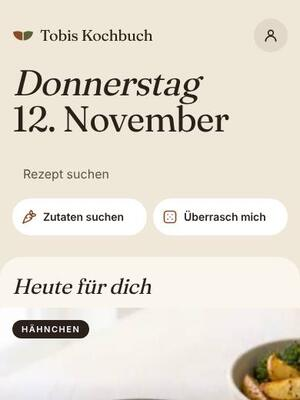
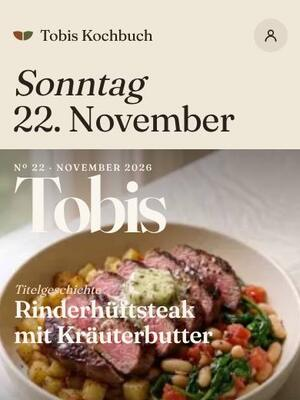
Brigade, Boxengasse, Bildband: eigener Aufbau (Bonschiene, Zeitenmonitor, Magazin-Titelblatt)
Claude-Session: https://claude.ai/code/session_013PTjiN2vxWXEUNgaQEpBeg

diff --git a/assets/skins/brigade.css b/assets/skins/brigade.css
@@ -118,3 +118,28 @@ html.skin.skin-brigade:not(._a):not(._b):not(._c):not(._d):not(._e):not(._f) .bo
 .skIntro-brigade .ivBon{width:min(62vw,250px);margin:0 auto;padding:12px 14px 18px;background:#FAFAF7;font:600 15px ui-monospace, "SF Mono", Menlo, monospace;color:#16191B;box-shadow:0 10px 20px rgba(0,0,0,.2);
   clip-path:inset(0 0 100% 0);animation:ivPrint .9s steps(9,end) 1.2s forwards}
 .skIntro-brigade .ivBon b{display:block;border-bottom:1px dashed #999;padding-bottom:4px;margin-bottom:6px}
+
+/* Dez. 2026, mehr eigener Charakter (brigade.js): Bonschiene auf dem Start, Rezeptliste als Bons an der Schiene, Krepp-Etikett */
+.bgRail{margin:18px 0 6px}
+.bgRailHead{margin:0 0 0;padding:6px 10px;background:linear-gradient(#E3E6E9,#AEB4BA);border-radius:4px;box-shadow:inset 0 1px 0 #FFF, 0 2px 4px rgba(0,0,0,.2);font:700 .75rem "Archivo", -apple-system, sans-serif;letter-spacing:.14em;text-transform:uppercase;color:#2A2F33}
+.bgTickets{display:flex;gap:10px;overflow-x:auto;padding:0 4px 14px;scrollbar-width:none}
+.bgTicket{flex:0 0 46%;display:flex;flex-direction:column;gap:4px;margin-top:-2px;padding:14px 12px 18px;background:#FFFFFE;color:#1A1A1A;text-decoration:none;font:400 .875rem/1.35 "Retro Mono", ui-monospace, monospace;box-shadow:0 6px 14px rgba(0,0,0,.18);transform:rotate(var(--r));transform-origin:50% 0;-webkit-mask:linear-gradient(#000,#000) 0 0/100% calc(100% - 7px) no-repeat, linear-gradient(135deg,#000 50%,transparent 50%) 0 100%/10px 7px repeat-x, linear-gradient(225deg,#000 50%,transparent 50%) 5px 100%/10px 7px repeat-x;mask:linear-gradient(#000,#000) 0 0/100% calc(100% - 7px) no-repeat, linear-gradient(135deg,#000 50%,transparent 50%) 0 100%/10px 7px repeat-x, linear-gradient(225deg,#000 50%,transparent 50%) 5px 100%/10px 7px repeat-x}
+.bgNo{color:#2E62A8;font-size:.75rem}
+.bgTicket b{font-weight:600}
+.bgTicket i{font-style:normal;color:#5A5F64}
+html.skin-brigade.bgList:not(#_x#_y) #recipeGrid{display:grid !important;grid-template-columns:repeat(2,minmax(0,1fr)) !important;gap:26px 12px !important;padding-top:20px !important;background:linear-gradient(#E3E6E9,#AEB4BA) 0 0/100% 14px no-repeat}
+@media (min-width:700px){html.skin-brigade.bgList:not(#_x#_y) #recipeGrid{grid-template-columns:repeat(3,minmax(0,1fr)) !important}}
+@media (min-width:1100px){html.skin-brigade.bgList:not(#_x#_y) #recipeGrid{grid-template-columns:repeat(4,minmax(0,1fr)) !important}}
+html.skin-brigade.bgList:not(#_x#_y) #recipeGrid .linkCard{margin:0 !important}
+html.skin-brigade.bgList:not(#_x#_y) #recipeGrid .linkCard:nth-child(3n+1) .recipeCard{transform:rotate(-1.2deg)}
+html.skin-brigade.bgList:not(#_x#_y) #recipeGrid .linkCard:nth-child(3n+2) .recipeCard{transform:rotate(.9deg)}
+html.skin-brigade.bgList:not(#_x#_y) #recipeGrid .recipeCard{display:flex !important;flex-direction:column;padding:12px 10px 20px !important;background:#FFFFFE !important;border-radius:0 !important;border:0 !important;box-shadow:0 6px 14px rgba(0,0,0,.16) !important;transform-origin:50% 0;-webkit-mask:linear-gradient(#000,#000) 0 0/100% calc(100% - 7px) no-repeat, linear-gradient(135deg,#000 50%,transparent 50%) 0 100%/10px 7px repeat-x, linear-gradient(225deg,#000 50%,transparent 50%) 5px 100%/10px 7px repeat-x;mask:linear-gradient(#000,#000) 0 0/100% calc(100% - 7px) no-repeat, linear-gradient(135deg,#000 50%,transparent 50%) 0 100%/10px 7px repeat-x, linear-gradient(225deg,#000 50%,transparent 50%) 5px 100%/10px 7px repeat-x}
+html.skin-brigade.bgList:not(#_x#_y) #recipeGrid .recipeCard::before{content:var(--bon);display:flex;justify-content:space-between;padding-bottom:6px;margin-bottom:8px;border-bottom:1px dashed #9AA0A6;font:400 .75rem "Retro Mono", ui-monospace, monospace;color:#2E62A8}
+html.skin-brigade.bgList:not(#_x#_y) #recipeGrid .rcImg{order:3;margin-top:10px !important;border-radius:0 !important;aspect-ratio:4/3 !important}
+html.skin-brigade.bgList:not(#_x#_y) #recipeGrid .rcBody{padding:0 !important}
+html.skin-brigade.bgList:not(#_x#_y) #recipeGrid .recipeTitle{font:600 .9375rem/1.3 "Retro Mono", ui-monospace, monospace !important;text-transform:uppercase;color:#1A1A1A !important}
+html.skin-brigade.bgList:not(#_x#_y) #recipeGrid .recipeTitle::before{content:"1× "}
+html.skin-brigade.bgList:not(#_x#_y) #recipeGrid .recipeMeta{font:400 .75rem "Retro Mono", ui-monospace, monospace !important;color:#5A5F64 !important}
+html.skin-brigade.bgList:not(#_x#_y) #recipeGrid .recipeMeta>:nth-child(n+2){display:none !important}
+.bgTape{position:absolute;left:50%;top:-14px;z-index:3;max-width:86%;padding:8px 18px;background:#5B8FD6;color:#0E1A2B;font:400 1.375rem/1.1 "Skin Filzstift", "Skin Feder", cursive;transform:translateX(-50%) rotate(-2deg);box-shadow:0 2px 4px rgba(0,0,0,.2);white-space:nowrap;overflow:hidden;text-overflow:ellipsis;opacity:.95}
+html.skin-brigade:not(#_x#_y) .recipePageHero{overflow:visible !important;margin-top:70px !important}

diff --git a/assets/skins/boxengasse.css b/assets/skins/boxengasse.css
@@ -103,3 +103,33 @@ html.skin-boxengasse:not(#_x#_y) .bxMarqTrack{animation:none}
 html.skin-boxengasse:not(#_x#_y) .bxRv{opacity:1;transform:none}
 html.skin-boxengasse::view-transition-new(root){animation:vtIn .18s both}
 }
+
+/* Dez. 2026, mehr eigener Charakter (boxengasse.js): Startaufstellung, Zeitenmonitor als Rezeptliste, Telemetrie-Leiste */
+.bxGrid{display:grid;grid-template-columns:1fr 1fr 1fr;align-items:end;gap:8px;margin:20px 0 8px}
+.bxGridHead{grid-column:1/-1;display:flex;justify-content:space-between;margin:0 0 4px;font:800 .75rem/1 -apple-system, sans-serif;letter-spacing:.12em;text-transform:uppercase;color:#D2FF00}
+.bxSlot{position:relative;display:flex;flex-direction:column;gap:4px;padding:8px;background:#1C1F17;border-top:4px solid #D2FF00;color:#F2F2EC;text-decoration:none;clip-path:polygon(0 0,100% 0,100% calc(100% - 14px),calc(100% - 14px) 100%,0 100%)}
+.bxP1{padding-bottom:28px;border-top-color:#FFFFFF}
+.bxSlot img{width:100%;aspect-ratio:1;object-fit:cover}
+.bxSlot b{position:absolute;left:8px;top:8px;padding:2px 6px;background:#D2FF00;color:#282C20;font:900 1rem/1 -apple-system, sans-serif}
+.bxSlot span{font:800 .8125rem/1.15 -apple-system, sans-serif;text-transform:uppercase;display:-webkit-box;-webkit-line-clamp:2;-webkit-box-orient:vertical;overflow:hidden}
+.bxSlot i{font:600 .75rem/1 ui-monospace, monospace;font-style:normal;color:#D2FF00}
+.bxBoardHead{display:grid;grid-template-columns:3rem 1fr 6.5rem;gap:10px;margin:14px 0 0;padding:6px 10px;background:#D2FF00;color:#282C20;font:900 .75rem -apple-system, sans-serif;letter-spacing:.1em;text-transform:uppercase}
+html.skin-boxengasse.bxList:not(#_x#_y) #recipeGrid{display:block !important;background:#1C1F17;padding:0 !important;margin:0 0 20px !important;counter-reset:none}
+html.skin-boxengasse.bxList:not(#_x#_y) #recipeGrid .linkCard{display:block;margin:0 !important}
+html.skin-boxengasse.bxList:not(#_x#_y) #recipeGrid .recipeCard{position:relative;display:grid !important;grid-template-columns:3rem 48px 1fr 6.5rem;align-items:center;gap:10px;padding:8px 10px !important;background:transparent !important;border:0 !important;border-bottom:1px solid rgba(242,242,236,.1) !important;border-radius:0 !important;box-shadow:none !important;clip-path:none !important}
+html.skin-boxengasse.bxList:not(#_x#_y) #recipeGrid .linkCard:nth-child(odd) .recipeCard{background:rgba(242,242,236,.03) !important}
+html.skin-boxengasse.bxList:not(#_x#_y) #recipeGrid .recipeCard::before{content:var(--pos);font:900 1rem/1 -apple-system, sans-serif;color:#F2F2EC}
+html.skin-boxengasse.bxList:not(#_x#_y) #recipeGrid .linkCard:first-child .recipeCard::before{color:#D2FF00}
+html.skin-boxengasse.bxList:not(#_x#_y) #recipeGrid .recipeCard::after{content:var(--gap);grid-column:4;grid-row:1;text-align:right;font:700 .8125rem ui-monospace, monospace;color:#D2FF00}
+html.skin-boxengasse.bxList:not(#_x#_y) #recipeGrid .rcImg{grid-column:2;grid-row:1;width:48px !important;height:48px !important;aspect-ratio:1 !important;margin:0 !important;border-radius:0 !important;clip-path:none !important}
+html.skin-boxengasse.bxList:not(#_x#_y) #recipeGrid .rcImg img{width:100%;height:100%;object-fit:cover;transform:none !important}
+html.skin-boxengasse.bxList:not(#_x#_y) #recipeGrid .rcBody{grid-column:3;grid-row:1;padding:0 !important;position:relative}
+html.skin-boxengasse.bxList:not(#_x#_y) #recipeGrid .rcBody::after{content:"";display:block;height:3px;margin-top:6px;background:linear-gradient(90deg,#A64DFF 0 calc(var(--s1) * 33%),#3FD46E 0 calc(var(--s1) * 66%),#D2FF00 0 calc(var(--s1) * 100%),transparent 0)}
+html.skin-boxengasse.bxList:not(#_x#_y) #recipeGrid .recipeTitle{font:800 .9375rem/1.15 -apple-system, sans-serif !important;text-transform:uppercase;color:#F2F2EC !important;-webkit-line-clamp:1}
+html.skin-boxengasse.bxList:not(#_x#_y) #recipeGrid .recipeMeta{font:600 .75rem ui-monospace, monospace !important;color:#B9BDAE !important}
+html.skin-boxengasse.bxList:not(#_x#_y) #recipeGrid .recipeMeta>:nth-child(n+2),html.skin-boxengasse.bxList:not(#_x#_y) #recipeGrid :is(.freezerFlag,.rcFavBadge){display:none !important}
+@media (hover:hover) and (pointer:fine){html.skin-boxengasse.bxList:not(#_x#_y) #recipeGrid .linkCard:hover .recipeCard{background:rgba(210,255,0,.08) !important}}
+.bxTele{display:grid;grid-template-columns:repeat(4,1fr);gap:2px;margin:0 0 18px;background:#D2FF00;padding:2px}
+.bxTele span{display:flex;flex-direction:column;gap:2px;padding:8px 6px;background:#1C1F17}
+.bxTele small{font:800 .625rem -apple-system, sans-serif;letter-spacing:.12em;text-transform:uppercase;color:#B9BDAE}
+.bxTele b{font:900 1.125rem/1 -apple-system, sans-serif;color:#D2FF00;font-variant-numeric:tabular-nums}

diff --git a/assets/skins/bildband.css b/assets/skins/bildband.css
@@ -93,3 +93,36 @@ html.skin-bildband:not(#_x#_y) .bxRv{opacity:1;transform:none}
 html.skin-bildband:not(#_x#_y) .recipePageHero img.bbKen{animation:none}
 html.skin-bildband::view-transition-new(root){animation:vtIn .18s both}
 }
+
+/* Dez. 2026, mehr eigener Charakter (bildband.js): Titelblatt, Inhaltsseite mit Seitenzahlen, Aufmacher mit Zitat */
+.bdCover{position:relative;min-height:min(118vw, 640px);margin:16px calc(-16px - env(safe-area-inset-right)) 10px calc(-16px - env(safe-area-inset-left));overflow:hidden;color:#FAF6EE;background:#2B2118;display:flex;flex-direction:column;justify-content:space-between;padding:16px 18px 22px}
+.bdCoverImg{position:absolute;inset:0;width:100%;height:100%;object-fit:cover}
+.bdCover::after{content:"";position:absolute;inset:0;background:linear-gradient(rgba(20,14,8,.45), transparent 30%, transparent 55%, rgba(20,14,8,.75))}
+.bdMast,.bdLead,.bdLines{position:relative;z-index:1}
+.bdMast span{display:block;font:500 .75rem "Fraunces", Georgia, serif;letter-spacing:.14em;text-transform:uppercase}
+.bdMast b{display:block;font:800 clamp(4.4rem, 26vw, 9rem)/.8 "Fraunces", Georgia, serif;letter-spacing:-.05em;font-variation-settings:"opsz" 144}
+.bdLead{display:block;color:#FAF6EE;text-decoration:none;max-width:80%}
+.bdLead small{display:block;font:italic 400 1rem "Fraunces", Georgia, serif;color:#F2D9B8}
+.bdLead b{font:600 clamp(1.8rem, 8vw, 2.8rem)/1.02 "Fraunces", Georgia, serif;letter-spacing:-.02em}
+.bdLines{list-style:none;margin:12px 0 0;padding:10px 0 0;border-top:1px solid rgba(250,246,238,.6)}
+.bdLines li{font:400 .9375rem/1.3 "Fraunces", Georgia, serif}
+.bdLines a{display:inline-flex;min-height:32px;align-items:center;color:#FAF6EE;text-decoration:none}
+.bdLines a::before{content:"— ";margin-right:4px}
+.bdInhalt{margin:18px 0 6px;font:italic 400 clamp(2.6rem, 12vw, 4rem)/1 "Fraunces", Georgia, serif;color:#2B2118;border-bottom:2px solid #2B2118;padding-bottom:6px}
+html.skin-bildband.bdList:not(#_x#_y) #recipeGrid{display:block !important}
+html.skin-bildband.bdList:not(#_x#_y) #recipeGrid .linkCard{display:block;margin:0 !important}
+html.skin-bildband.bdList:not(#_x#_y) #recipeGrid .recipeCard{display:grid !important;grid-template-columns:3.2rem 1fr 72px;align-items:center;gap:12px;padding:12px 0 !important;background:transparent !important;box-shadow:none !important;border:0 !important;border-bottom:1px solid rgba(43,33,24,.2) !important;border-radius:0 !important}
+html.skin-bildband.bdList:not(#_x#_y) #recipeGrid .recipeCard::before{content:var(--pg);font:400 1.125rem "Fraunces", Georgia, serif;color:#8A4B2A;font-variant-numeric:oldstyle-nums}
+html.skin-bildband.bdList:not(#_x#_y) #recipeGrid .rcImg{grid-column:3;grid-row:1;width:72px !important;aspect-ratio:1 !important;border-radius:0 !important;margin:0 !important}
+html.skin-bildband.bdList:not(#_x#_y) #recipeGrid .rcBody{grid-column:2;grid-row:1;padding:0 !important}
+html.skin-bildband.bdList:not(#_x#_y) #recipeGrid .recipeTitle{font:500 1.25rem/1.15 "Fraunces", Georgia, serif !important;color:#2B2118 !important}
+html.skin-bildband.bdList:not(#_x#_y) #recipeGrid .recipeMeta{font:italic 400 .8125rem "Fraunces", Georgia, serif !important;color:#6A5646 !important}
+html.skin-bildband.bdList:not(#_x#_y) #recipeGrid .recipeMeta>:nth-child(n+2){display:none !important}
+/* jeder fünfte Eintrag als großer Aufmacher */
+html.skin-bildband.bdList:not(#_x#_y) #recipeGrid .linkCard:nth-child(5n+1) .recipeCard{grid-template-columns:3.2rem 1fr;grid-template-rows:auto auto;padding:20px 0 16px !important}
+html.skin-bildband.bdList:not(#_x#_y) #recipeGrid .linkCard:nth-child(5n+1) .rcImg{grid-column:1 / -1;grid-row:1;width:100% !important;aspect-ratio:4/3 !important;margin-bottom:6px !important}
+html.skin-bildband.bdList:not(#_x#_y) #recipeGrid .linkCard:nth-child(5n+1) .recipeCard::before{grid-row:2}
+html.skin-bildband.bdList:not(#_x#_y) #recipeGrid .linkCard:nth-child(5n+1) .rcBody{grid-row:2}
+html.skin-bildband.bdList:not(#_x#_y) #recipeGrid .linkCard:nth-child(5n+1) .recipeTitle{font-size:1.75rem !important}
+.bdQuote{margin:0 0 22px;padding:0 0 0 18px;border-left:3px solid #8A4B2A;font:italic 400 clamp(1.4rem, 5.8vw, 2rem)/1.2 "Fraunces", Georgia, serif;color:#2B2118}
+.bdQuote::before{content:"„"}.bdQuote::after{content:"“"}

diff --git a/assets/skins/boxengasse.js b/assets/skins/boxengasse.js
@@ -1,0 +1,45 @@
+// Skin „Boxengasse“ (Dez. 2026, mehr eigener Charakter): Rezeptliste = Zeitenmonitor (Position, Name, Zeit, Abstand zum Schnellsten,
+// Sektorbalken), Start: „Startaufstellung“ der drei schnellsten Gerichte; Rezeptseite: Telemetrie-Leiste.
+(()=>{
+  "use strict";
+  const esc = (t)=> String(t || "").replace(/[&<>"]/g, (c)=> ({ "&": "&amp;", "<": "&lt;", ">": "&gt;", '"': "&quot;" })[c]);
+  const mins = (z)=>{ z = String(z || "").split("·")[0]; const h = /(\d+)\s*Std/.exec(z), m = [...z.matchAll(/(\d+)\s*Min/g)].map((x)=> +x[1]); const r = /(\d+)\s*–\s*(\d+)\s*Min/.exec(z); return (h ? +h[1] * 60 : 0) + (r ? +r[2] : (m.length ? m[m.length - 1] : 0)); };
+
+  function home(api){
+    const quick = document.querySelector(".homeQuick"); if(!quick) return;
+    const all = api.recipes().map((r)=> ({ ...r, m: mins(r.z) })).filter((r)=> r.m > 0).sort((a, b)=> a.m - b.m).slice(0, 3);
+    if(all.length < 3) return;
+    const el = api.bit("bxGrid", "boxengasse");
+    el.innerHTML = `<p class="bxGridHead"><span>Startaufstellung</span><span>Die Schnellsten</span></p>${[1, 0, 2].map((k)=>{ const r = all[k]; return `<a class="bxSlot bxP${k + 1}" href="${esc(r.u)}"><img src="${esc(r.i)}" alt=""><b>P${k + 1}</b><span>${esc(r.t)}</span><i>${r.m} Min</i></a>`; }).join("")}`;
+    quick.after(el); api.add(()=> el.remove());
+  }
+
+  function list(api){
+    const grid = document.getElementById("recipeGrid"); if(!grid) return;
+    const cards = [...grid.querySelectorAll(".linkCard")];
+    const ms = cards.map((c)=> mins(c.querySelector(".recipeMeta")?.textContent));
+    const best = Math.min(...ms.filter((m)=> m > 0));
+    cards.forEach((c, i)=>{
+      c.style.setProperty("--pos", `"P${i + 1}"`);
+      c.style.setProperty("--gap", `"${ms[i] > 0 ? (ms[i] === best ? "Schnellste" : "+" + (ms[i] - best) + " Min") : "–"}"`);
+      c.style.setProperty("--s1", (.3 + ((i * 37) % 70) / 100).toFixed(2));
+    });
+    if(!document.querySelector(".bxBoardHead")){
+      const head = api.bit("bxBoardHead", "boxengasse");
+      head.innerHTML = `<span>Pos</span><span>Gericht</span><span>Abstand</span>`;
+      grid.before(head); api.add(()=> head.remove());
+    }
+    document.documentElement.classList.add("bxList"); api.add(()=> document.documentElement.classList.remove("bxList"));
+  }
+
+  function recipe(api){
+    const body = document.querySelector(".recipePageBody"), D = window.RECIPE_DATA; if(!body || !D) return;
+    const facts = [...document.querySelectorAll(".recipeFacts .kv")].map((k)=> k.textContent.trim()).filter(Boolean);
+    const steps = document.querySelectorAll("#stepsPane li, .recipeBody ol > li").length;
+    const el = api.bit("bxTele", "boxengasse");
+    el.innerHTML = [["Zeit", facts[0] || "–"], ["Portionen", D.baseServings], ["Schritte", steps || "–"], ["Zutaten", (D.ingredients || []).filter((x)=> !x.section).length]].map(([k, v])=> `<span><small>${k}</small><b>${esc(v)}</b></span>`).join("");
+    body.prepend(el); api.add(()=> el.remove());
+  }
+
+  window.KOCHBUCH_FX.boxengasse = { start(api){ if(api.home()) home(api); list(api); recipe(api); }, refresh(api){ list(api); } };
+})();

diff --git a/assets/skins/bildband.js b/assets/skins/bildband.js
@@ -1,0 +1,40 @@
+// Skin „Bildband“ (Dez. 2026, mehr eigener Charakter): Start = Titelblatt eines Food-Magazins (Foto über die ganze Fläche, riesiger
+// Titelschriftzug, Titelzeilen, Heftnummer); Rezeptliste = „Inhalt“ mit Seitenzahlen und abwechselnd großen Aufmacher-Fotos;
+// Rezeptseite = Aufmacher mit Kapitelnummer und Untertitel als Zitat.
+(()=>{
+  "use strict";
+  const esc = (t)=> String(t || "").replace(/[&<>"]/g, (c)=> ({ "&": "&amp;", "<": "&lt;", ">": "&gt;", '"': "&quot;" })[c]);
+
+  function cover(api){
+    const g = document.querySelector(".homeGreeting"); if(!g) return;
+    const a = document.getElementById("todayLink"), title = a?.querySelector(".homeFeaturedTitle")?.textContent.trim();
+    if(!title) return;
+    const img = a.querySelector("img")?.currentSrc || a.querySelector("img")?.src || "";
+    const all = api.recipes(), d = new Date();
+    const lines = all.filter((r)=> r.t !== title).slice((d.getDate() * 3) % Math.max(1, all.length - 3)).slice(0, 3);
+    const el = api.bit("bdCover", "bildband");
+    el.innerHTML = `${img ? `<img class="bdCoverImg" src="${esc(img)}" alt="">` : ""}<div class="bdMast"><span>Nº ${d.getDate()} · ${esc(d.toLocaleDateString("de-DE", { month: "long", year: "numeric" }))}</span><b>Tobis</b></div>
+      <a class="bdLead" href="${esc(a.getAttribute("href"))}"><small>Titelgeschichte</small><b>${esc(title)}</b></a>
+      <ul class="bdLines">${lines.map((r)=> `<li><a href="${esc(r.u)}">${esc(r.t)}</a></li>`).join("")}</ul>`;
+    g.after(el); api.add(()=> el.remove());
+    document.body.classList.add("bdHome"); api.add(()=> document.body.classList.remove("bdHome"));
+  }
+
+  function contents(api){
+    const grid = document.getElementById("recipeGrid"); if(!grid) return;
+    grid.querySelectorAll(".linkCard").forEach((c, i)=> c.style.setProperty("--pg", `"${String(8 + i * 6).padStart(3, "0")}"`));
+    if(!document.querySelector(".bdInhalt")){
+      const h = api.bit("bdInhalt", "bildband", "p"); h.textContent = "Inhalt";
+      grid.before(h); api.add(()=> h.remove());
+    }
+    document.documentElement.classList.add("bdList"); api.add(()=> document.documentElement.classList.remove("bdList"));
+  }
+
+  function opener(api){
+    const D = window.RECIPE_DATA, body = document.querySelector(".recipePageBody"); if(!D || !body || !D.subtitle) return;
+    const q = api.bit("bdQuote", "bildband", "blockquote"); q.textContent = D.subtitle;
+    body.prepend(q); api.add(()=> q.remove());
+  }
+
+  window.KOCHBUCH_FX.bildband = { start(api){ if(api.home()) cover(api); contents(api); opener(api); }, refresh(api){ contents(api); } };
+})();

diff --git a/assets/skins/brigade.js b/assets/skins/brigade.js
@@ -1,0 +1,31 @@
+// Skin „Brigade“ (Dez. 2026, mehr eigener Charakter): Rezeptliste = Bonleiste (jeder Eintrag ein Bon mit Abriss, Bon-Nummer, Garzeit,
+// klemmt an einer Edelstahlschiene), Rezeptseite: Name auf blauem Malerkrepp über dem Foto wie an der Station beschriftet,
+// Start: Schiene mit drei Bons (heute + zwei weitere).
+(()=>{
+  "use strict";
+  const esc = (t)=> String(t || "").replace(/[&<>"]/g, (c)=> ({ "&": "&amp;", "<": "&lt;", ">": "&gt;", '"': "&quot;" })[c]);
+
+  function home(api){
+    const quick = document.querySelector(".homeQuick"); if(!quick) return;
+    const all = api.recipes(); if(all.length < 3) return;
+    let seed = Math.floor(Date.now() / 864e5);
+    const pick = [0, 1, 2].map((k)=> all[(seed * 7 + k * 13) % all.length]);
+    const el = api.bit("bgRail", "brigade");
+    el.innerHTML = `<p class="bgRailHead">Auf der Schiene</p><div class="bgTickets">${pick.map((r, i)=> `<a class="bgTicket" href="${esc(r.u)}" style="--r:${[-2, 1.5, -1][i]}deg"><span class="bgNo">Bon ${1020 + ((seed + i * 17) % 80)}</span><b>1× ${esc(r.t)}</b><i>${esc((r.z || "").split("·")[0].trim())}</i></a>`).join("")}</div>`;
+    quick.after(el); api.add(()=> el.remove());
+  }
+
+  function list(api){
+    const grid = document.getElementById("recipeGrid"); if(!grid) return;
+    grid.querySelectorAll(".linkCard").forEach((c, i)=> c.style.setProperty("--bon", `"BON ${String(1001 + i)}"`));
+    document.documentElement.classList.add("bgList"); api.add(()=> document.documentElement.classList.remove("bgList"));
+  }
+
+  function recipe(api){
+    const hero = document.querySelector(".recipePageHero"), D = window.RECIPE_DATA; if(!hero || !D) return;
+    const t = api.bit("bgTape", "brigade"); t.setAttribute("aria-hidden", "true"); t.textContent = D.title;
+    hero.append(t); api.add(()=> t.remove());
+  }
+
+  window.KOCHBUCH_FX.brigade = { start(api){ if(api.home()) home(api); list(api); recipe(api); }, refresh(api){ list(api); } };
+})();

diff --git a/sw.js b/sw.js
@@ -1,7 +1,7 @@
 /* Tobis Kochbuch — Service Worker
    Offline: Seiten „netzwerk-zuerst“, aber nach 3 s Warten (schlechter Empfang im Supermarkt) aus dem Cache.
    CSS/JS/Bilder „Cache zuerst“, im Hintergrund aktualisieren. /api/ nie cachen. */
-const VERSION = 'kochbuch-v131';
+const VERSION = 'kochbuch-v132';
 const ASSET_CACHE = `${VERSION}-assets`;
 const IMAGE_CACHE = `${VERSION}-images`;
 const PAGE_CACHE = `${VERSION}-pages`;

diff --git a/CLAUDE.md b/CLAUDE.md
@@ -193,6 +193,11 @@ Nur `/api/*` läuft durch den Worker (`run_worker_first`), alles andere sind sta
     Fallblatt-Uhr bis 18:30 und Eingabezeile (`.isStation`), Liste = Stationsprotokoll mit Nummer, Eintrag, Foto im Röhrenrahmen (`html.isList`).
     **Akte:** Start = aufgeschlagene Mappe „Fall des Tages“ mit angeklammertem Sofortbild, Schreibmaschinen-Befund und Stempel (`.akFolder`), Liste =
     Mappen mit Reiter „AZ Jahr-Nr“ und schiefem Sofortbild (`html.akList`), Rezept als Sofortbild mit Büroklammer.
+    **Brigade:** Start = Schiene mit drei Bons (`.bgRail`), Liste = Bons mit Abriss und Bon-Nummer an der Edelstahlschiene (`html.bgList`), Rezept
+    mit blauem Krepp-Etikett `.bgTape`. **Boxengasse:** Start = „Startaufstellung“ der drei schnellsten Gerichte (`.bxGrid`), Liste = Zeitenmonitor
+    mit Position, Abstand zum Schnellsten, Sektorbalken (`html.bxList`), Rezept mit Telemetrie-Leiste `.bxTele`. **Bildband:** Start = Titelblatt
+    (Foto über die Fläche, riesiges „Tobis“, Titelgeschichte, Titelzeilen; `.bdCover`), Liste = „Inhalt“ mit Seitenzahlen, jeder fünfte Eintrag
+    als großer Aufmacher (`html.bdList`), Rezept mit Untertitel als Zitat `.bdQuote`.
   - **Brigade** ist hell (Edelstahl) mit Schürzenblau `#2E62A8`; ein dunkler Brigade-Look wurde abgelehnt.
   - Die 3D-Köpfe (Three.js) sind im Dez. 2026 entfernt worden.
 - **Leise Bewegung im Standard-Look (Nov. 2026, alle sechs vom Besitzer gewählt; Abschnitt 24 in `styles.css`, nur `html:not(.skin):not(.retro)`):**
